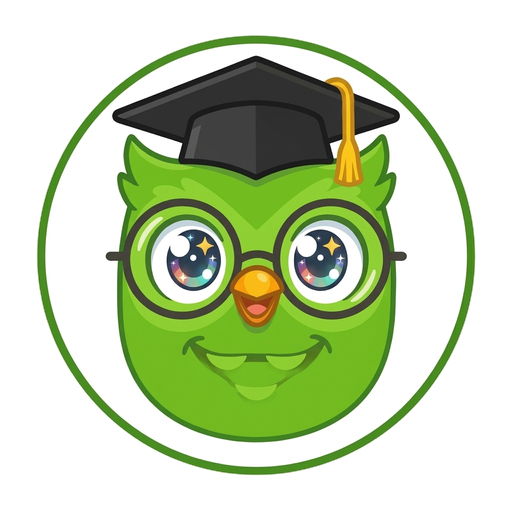
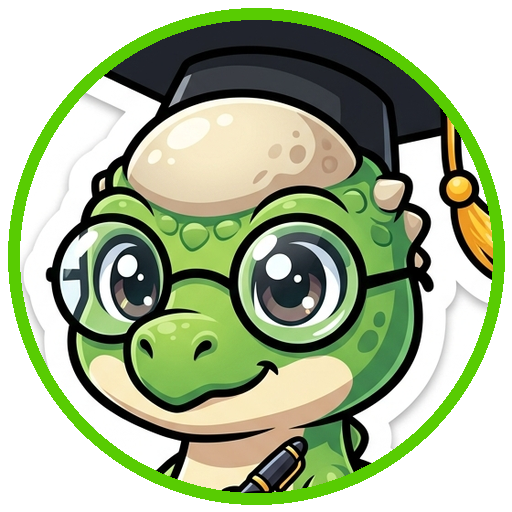
feat(mascot): transformar mascota a Profe Pachy (Paquicefalosaurio verde estilo chibi) con identidad propia y ojos anime

diff --git a/src/components/DuoMascot.tsx b/src/components/DuoMascot.tsx
@@ -14,9 +14,9 @@ interface DuoMascotProps {
 
 const VARIANT_SPEECHES: Record<MascotVariant, string[]> = {
   professor: [
-    '¡Hola profe! Sube tus PDFs y yo preparo el examen.',
+    '¡Hola profe! Soy Profe Pachy, tu paquicefalosaurio sabio.',
     '¡Listo para redactar test y problemas con rúbrica!',
-    '¡Haz clic en mí para darme ánimos antes de evaluar!',
+    '¡Haz clic en mí para celebrar antes de evaluar!',
     '¡Todo el solucionario saldrá listo para copiar y pegar!'
   ],
   exam: [
@@ -40,7 +40,7 @@ const VARIANT_SPEECHES: Record<MascotVariant, string[]> = {
 };
 
 /**
- * Authentic Duolingo-style Mascot ("Profe Búho") powered by consistent Nanobanana PNG assets:
+ * Authentic Chibi Mascot ("Profe Pachy", Paquicefalosaurio sabio) powered by consistent Nanobanana PNG assets:
  * - Continuous discreet idle breathing animation (squash-and-stretch)
  * - 2D cursor parallax tilt (mascot leans towards user pointer)
  * - Interactive click jump + boing sound + confetti burst + +10 XP badge
@@ -130,18 +130,18 @@ export const DuoMascot: React.FC<DuoMascotProps> = ({
     switch (variant) {
       case 'professor':
       case 'exam':
-        return '/assets/mascot/profesor-buho-idle.png';
+        return '/assets/mascot/pachy-profe-idle.png';
       case 'scanner':
-        return '/assets/mascot/profesor-buho-scanning.png';
+        return '/assets/mascot/pachy-profe-scanning.png';
       case 'trophy':
-        return '/assets/mascot/profesor-buho-celebrating.png';
+        return '/assets/mascot/pachy-profe-celebrating.png';
       default:
-        return '/assets/mascot/profesor-buho-idle.png';
+        return '/assets/mascot/pachy-profe-idle.png';
     }
   };
 
   const activeAsset = tempCelebrating
-    ? '/assets/mascot/profesor-buho-celebrating.png'
+    ? '/assets/mascot/pachy-profe-celebrating.png'
     : getBaseAssetPath();
 
   const activeSpeech = customSpeech || VARIANT_SPEECHES[variant][speechIndex];
@@ -163,7 +163,7 @@ export const DuoMascot: React.FC<DuoMascotProps> = ({
           handleMascotClick();
         }
       }}
-      title={interactive ? '¡Haz clic para interactuar con Profe Búho!' : undefined}
+      title={interactive ? '¡Haz clic para interactuar con Profe Pachy!' : undefined}
       className={`relative inline-flex flex-col items-center justify-center select-none group ${
         interactive ? 'cursor-pointer' : ''
       } ${className}`}
@@ -208,7 +208,7 @@ export const DuoMascot: React.FC<DuoMascotProps> = ({
       >
         <img
           src={activeAsset}
-          alt={`Profe Búho - ${variant}`}
+          alt={`Profe Pachy - ${variant}`}
           className="w-full h-auto object-contain max-h-[300px] select-none filter drop-shadow-md transition-transform"
           draggable={false}
         />
@@ -266,9 +266,9 @@ export const DuoCompanionDock: React.FC<DuoCompanionDockProps> = ({
   };
 
   const assetFileMap = {
-    idle: '/assets/mascot/profesor-buho-idle.png',
-    celebrating: '/assets/mascot/profesor-buho-celebrating.png',
-    scanning: '/assets/mascot/profesor-buho-scanning.png'
+    idle: '/assets/mascot/pachy-profe-idle.png',
+    celebrating: '/assets/mascot/pachy-profe-celebrating.png',
+    scanning: '/assets/mascot/pachy-profe-scanning.png'
   };
 
   return (
@@ -278,16 +278,16 @@ export const DuoCompanionDock: React.FC<DuoCompanionDockProps> = ({
           <div className="flex items-center justify-between border-b-2 border-[#afafaf]/40 pb-2.5 mb-3">
             <div className="flex items-center gap-2">
               <img
-                src="/assets/mascot/badge-owl-avatar.png"
-                alt="Avatar Profe Búho"
+                src="/assets/mascot/badge-pachy-avatar.png"
+                alt="Avatar Profe Pachy"
                 className="w-7 h-7 object-contain"
               />
               <div>
                 <h4 className="text-[14px] font-bold text-[#4b4b4b] leading-none">
-                  Profe Búho · Asistente
+                  Profe Pachy · Asistente
                 </h4>
                 <span className="text-[11px] font-bold uppercase tracking-[0.053em] text-[#58cc02]">
-                  Mascota Nanobanana ({creditsBalance} Cr.)
+                  Paquicefalosaurio Chibi ({creditsBalance} Cr.)
                 </span>
               </div>
             </div>
@@ -304,7 +304,7 @@ export const DuoCompanionDock: React.FC<DuoCompanionDockProps> = ({
           <div className="bg-[#d7ffb8]/30 border-2 border-[#58cc02] rounded-[12px] p-3 flex flex-col items-center">
             <img
               src={assetFileMap[poseAsset]}
-              alt={`Profe Búho - ${poseAsset}`}
+              alt={`Profe Pachy - ${poseAsset}`}
               className="w-36 h-36 object-contain select-none filter drop-shadow-sm duo-mascot-breathing"
             />
             <div className="flex items-center gap-1.5 mt-2.5">
@@ -344,14 +344,14 @@ export const DuoCompanionDock: React.FC<DuoCompanionDockProps> = ({
         className="group flex items-center gap-2.5 bg-[#ffffff] hover:bg-[#d7ffb8]/40 border-2 border-[#000437] rounded-[12px] px-3 py-2 transition-transform active:translate-y-0.5 shadow-md"
       >
         <img
-          src="/assets/mascot/badge-owl-avatar.png"
-          alt="Profe Búho"
+          src="/assets/mascot/badge-pachy-avatar.png"
+          alt="Profe Pachy"
           className="w-9 h-9 object-contain transition-transform group-hover:scale-110"
         />
         <div className="text-left pr-1">
           <div className="flex items-center gap-1.5">
             <span className="text-[13px] font-bold uppercase tracking-[0.053em] text-[#4b4b4b]">
-              Profe Búho
+              Profe Pachy
             </span>
             <span className="inline-block w-2 h-2 rounded-full bg-[#58cc02]" />
           </div>

diff --git a/src/components/Navbar.tsx b/src/components/Navbar.tsx
@@ -95,10 +95,10 @@ export const Navbar: React.FC<NavbarProps> = ({
             onClick={() => handleTabSwitch('upload')}
             className="flex items-center gap-2.5 text-left focus:outline-none"
           >
-            {/* Animated Sticker Owl Mascot Badge (Nanobanana Consistency) */}
+            {/* Animated Sticker Dinosaur Mascot Badge (Profe Pachy) */}
             <img
-              src="/assets/mascot/badge-owl-avatar.png"
-              alt="Mascota Profe Búho"
+              src="/assets/mascot/badge-pachy-avatar.png"
+              alt="Mascota Profe Pachy (Paquicefalosaurio)"
               className="w-10 h-10 shrink-0 transition-transform hover:scale-110 drop-shadow-xs"
             />
             <div>
